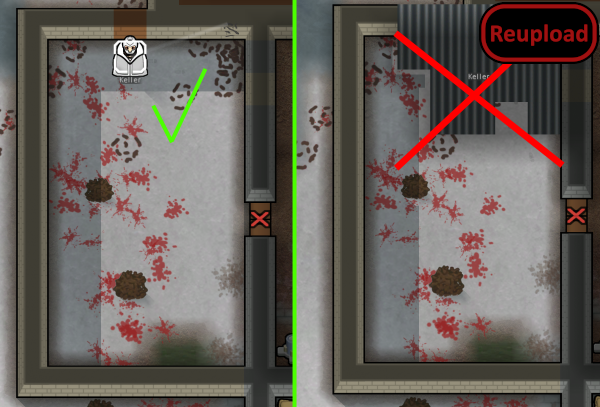
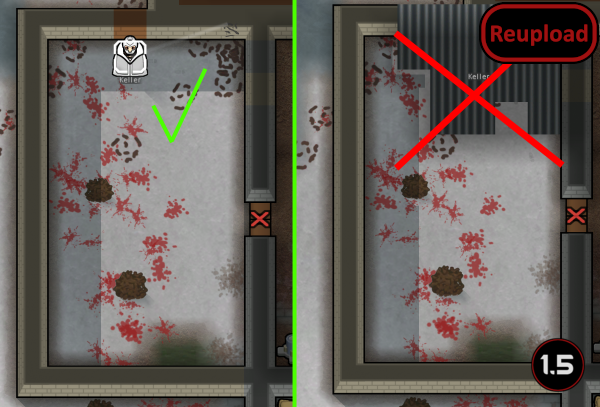
Mod updated for 1.5 and passed autotests

Changed region(s): [[0.87, 0.8256, 0.99, 0.973]]

diff --git a/Source/NoMoreAutoroof/NoMoreAutoroof.cs b/Source/NoMoreAutoroof/NoMoreAutoroof.cs
@@ -9,7 +9,6 @@ internal class NoMoreAutoroof : Mod
 {
     public NoMoreAutoroof(ModContentPack content) : base(content)
     {
-        var harmonyInstance = new Harmony("fed1s.rimworld.NoMoreAutoroof");
-        harmonyInstance.PatchAll(Assembly.GetExecutingAssembly());
+        new Harmony("fed1s.rimworld.NoMoreAutoroof").PatchAll(Assembly.GetExecutingAssembly());
     }
 }

diff --git a/README.md b/README.md
@@ -23,11 +23,13 @@ Pawns now ignore annoying automatic roof building upon completion of the room pe
 
 -  See if the the error persists if you just have this mod and its requirements active.
 -  If not, try adding your other mods until it happens again.
--  Post your error-log using https://steamcommunity.com/workshop/filedetails/?id=818773962]HugsLib and command Ctrl+F12
+-  Post your error-log using https://steamcommunity.com/workshop/filedetails/?id=818773962]HugsLib or the standalone https://steamcommunity.com/sharedfiles/filedetails/?id=2873415404]Uploader and command Ctrl+F12
 -  For best support, please use the Discord-channel for error-reporting.
 -  Do not report errors by making a discussion-thread, I get no notification of that.
 -  If you have the solution for a problem, please post it to the GitHub repository.
+-  Use https://github.com/RimSort/RimSort/releases/latest]RimSort to sort your mods
 
 
 
+https://steamcommunity.com/sharedfiles/filedetails/changelog/2026621806]![Image](https://img.shields.io/github/v/release/emipa606/NoMoreAutoroof?label=latest%20version&style=plastic&color=9f1111&labelColor=black)
 
